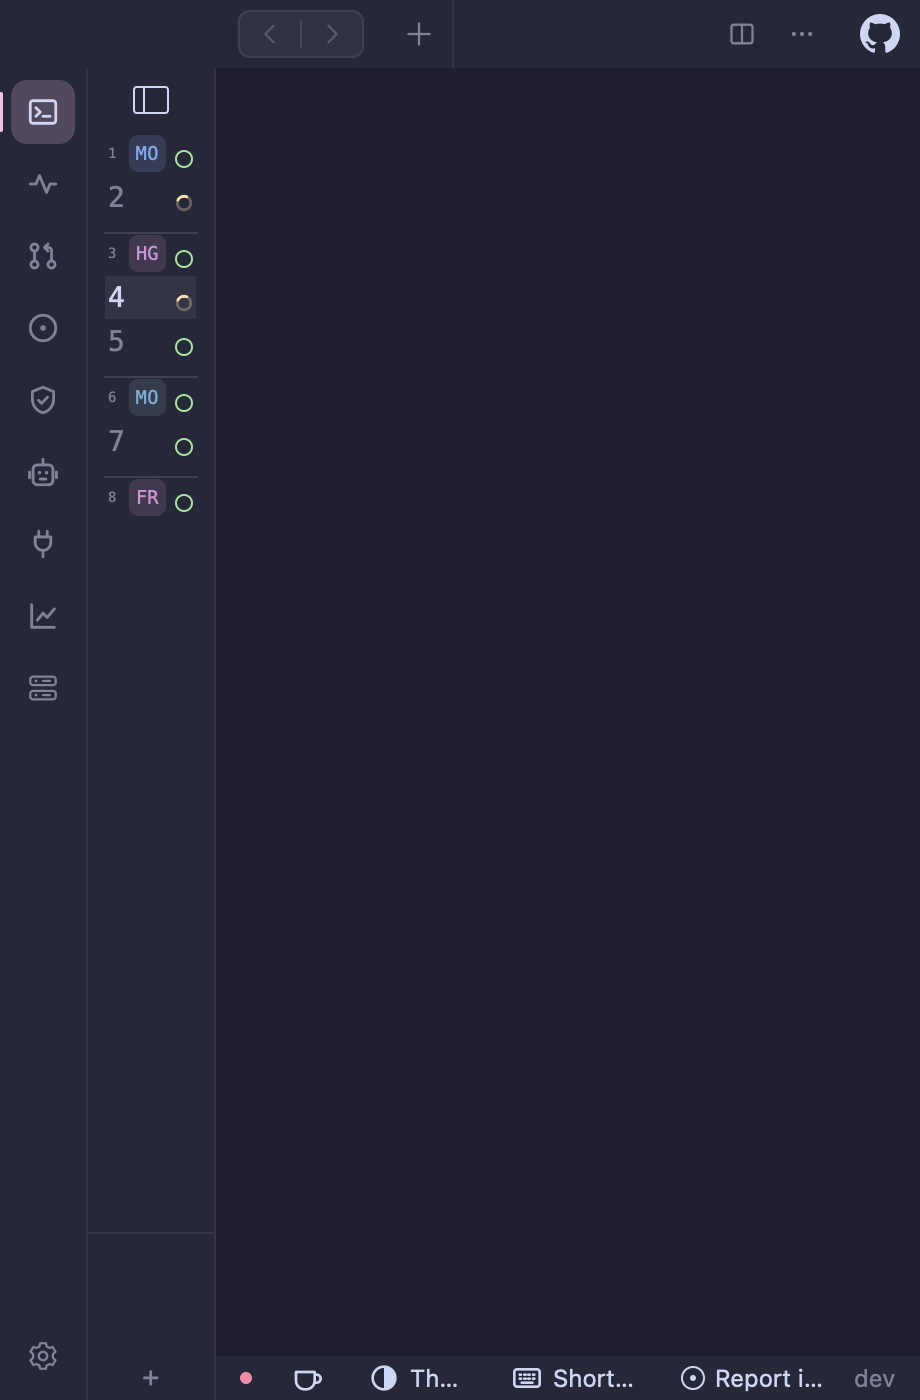
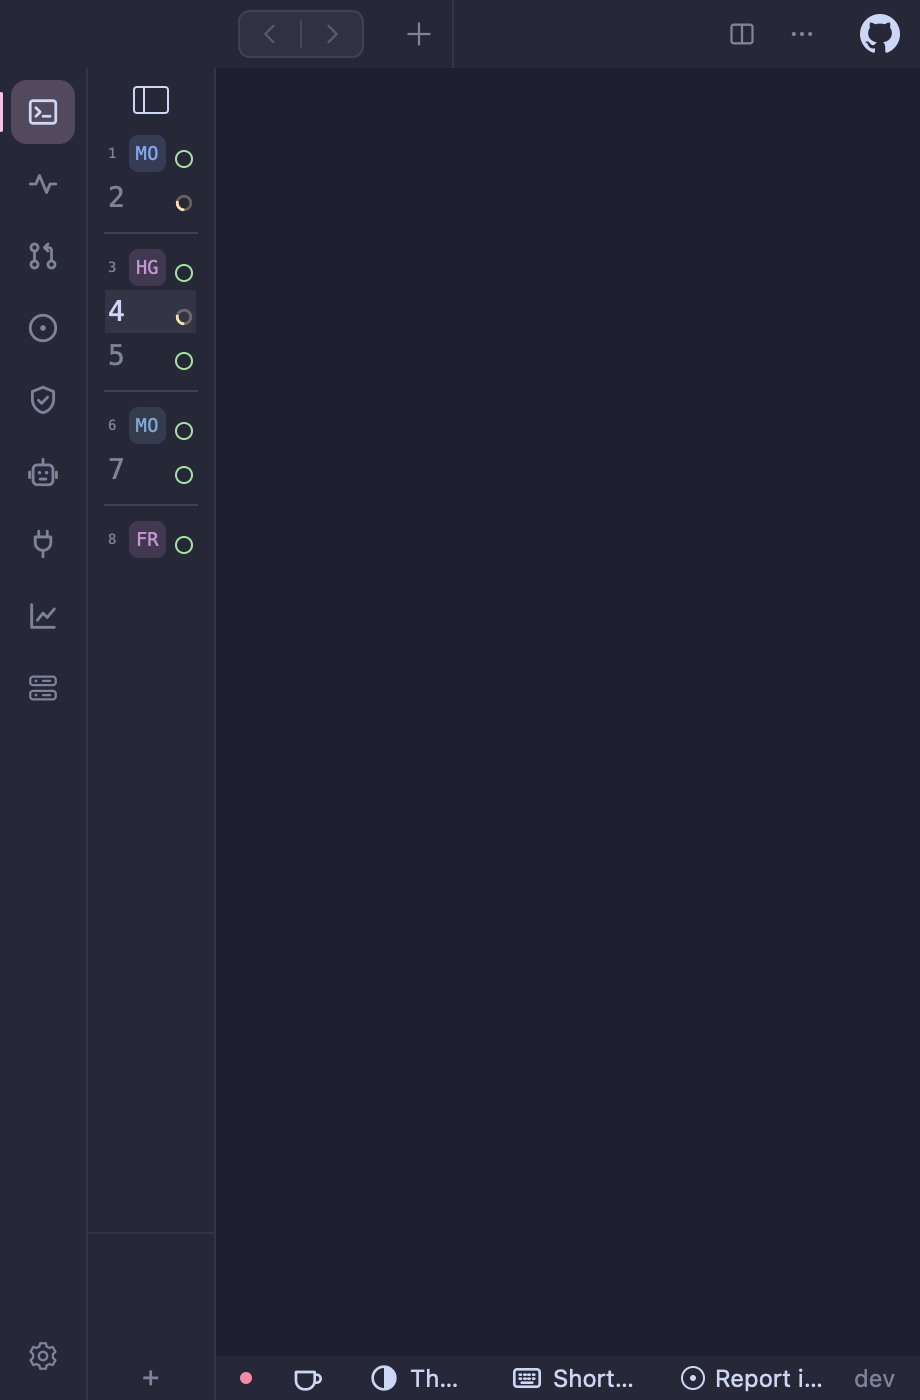
fix: give collapsed sidebar dividers room above repository tiles
Put group separators in a dedicated gap between clickable rows, with six logical pixels on either side. Keep linked worktree rows attached and add geometry assertions for the divider clearance.

Refresh the native light and dark rail captures.

Changed region(s): [[0.1217, 0.1536, 0.213, 0.3993]]

diff --git a/crates/sheprd-gpui/src/sidebar/rail.rs b/crates/sheprd-gpui/src/sidebar/rail.rs
@@ -345,6 +345,15 @@ impl SheprdWindow {
                         columns.height,
                         indicator(workspace.status, font, indicators),
                     ));
+                if position > 0 && !indented {
+                    spaces = spaces.child(
+                        div()
+                            .relative()
+                            .flex_none()
+                            .h(px(13.))
+                            .child(repository::separator(&key, 0., 8., theme).top(px(6.))),
+                    );
+                }
                 spaces = spaces.child(
                     aligned_row(
                         &key,
@@ -358,10 +367,6 @@ impl SheprdWindow {
                         columns,
                         marks,
                     )
-                    .when(position > 0 && !indented, |row| {
-                        row.mt(px(6.))
-                            .child(repository::separator(&key, 0., 8., theme))
-                    })
                     .id(SharedString::from(key.clone()))
                     .debug_selector(|| key)
                     .cursor_pointer()

diff --git a/crates/sheprd-gpui/src/sidebar/rail/tests/repository_marks.rs b/crates/sheprd-gpui/src/sidebar/rail/tests/repository_marks.rs
@@ -23,10 +23,13 @@ fn repository_tiles_keep_indices_and_status_columns(cx: &mut TestAppContext) {
         cx.debug_bounds("rail-repository-rail-workspace-ssh:host1-w0")
             .is_some()
     );
-    assert!(
-        cx.debug_bounds("repository-separator-rail-workspace-local-w3")
-            .is_some()
-    );
+    let separator = placed(cx, "repository-separator-rail-workspace-local-w3");
+    let previous = placed(cx, "rail-workspace-local-w2");
+    let root = placed(cx, "rail-workspace-local-w3");
+    assert_eq!(separator.top() - previous.bottom(), px(6.));
+    assert_eq!(root.top() - separator.bottom(), px(6.));
+    assert!(tile.top() - separator.bottom() >= px(6.));
+    assert_eq!(placed(cx, "rail-workspace-local-w4").top(), root.bottom());
     assert!(
         cx.debug_bounds("repository-separator-rail-workspace-local-w4")
             .is_none()

diff --git a/docs/screenshots/sidebar-repositories/README.md b/docs/screenshots/sidebar-repositories/README.md
@@ -7,6 +7,9 @@ These are actual application frames, not HTML mockups or generated images.
 - **Before:** `4d2b3fd82`, the parent of the sidebar visibility change.
 - **After:** `84f758688`, with an unused local variable removed from `row.rs`
   during the capture build (no visual effect).
+- The two `after/rail-*.png` captures are refreshed with the divider-spacing
+  follow-up in their containing commit: each divider now sits between rows,
+  with 6 points of clearance on each side, rather than against the next tile.
 - **Window:** 460 × 700 points, captured at 2× resolution (920 × 1400 pixels).
   The normal sidebar width clamp remains active at this narrow window size.
 - **Font:** Menlo, 14 points. **Themes:** Catppuccin Latte and Catppuccin Mocha.
